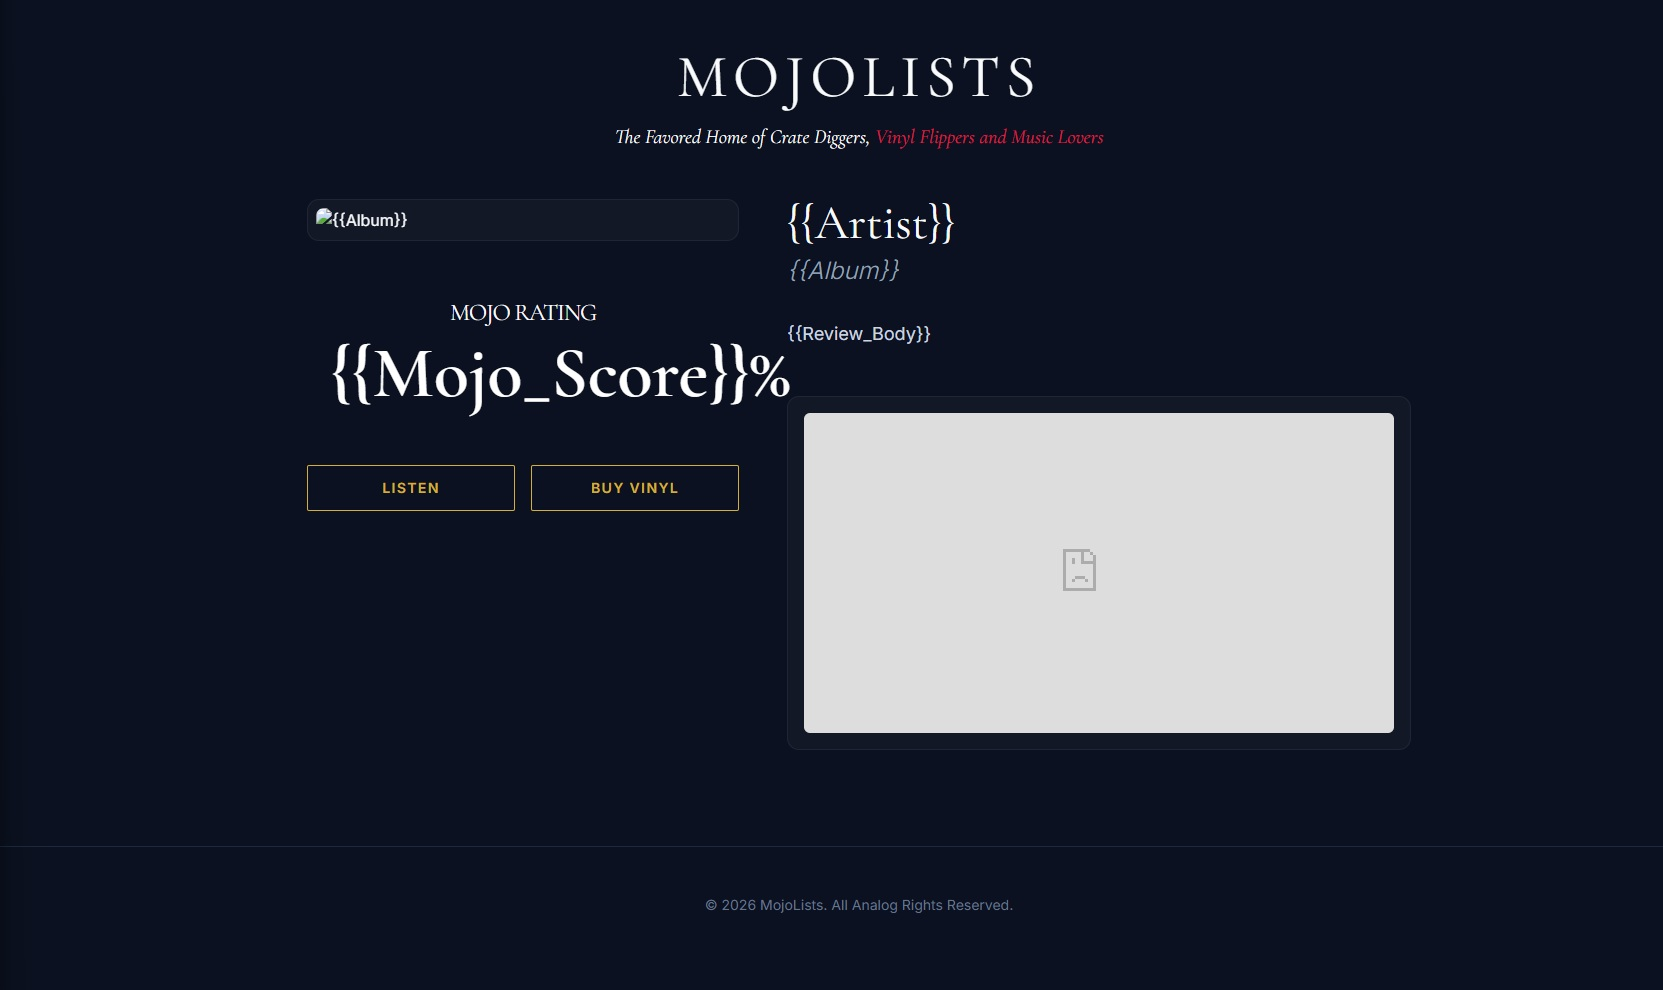
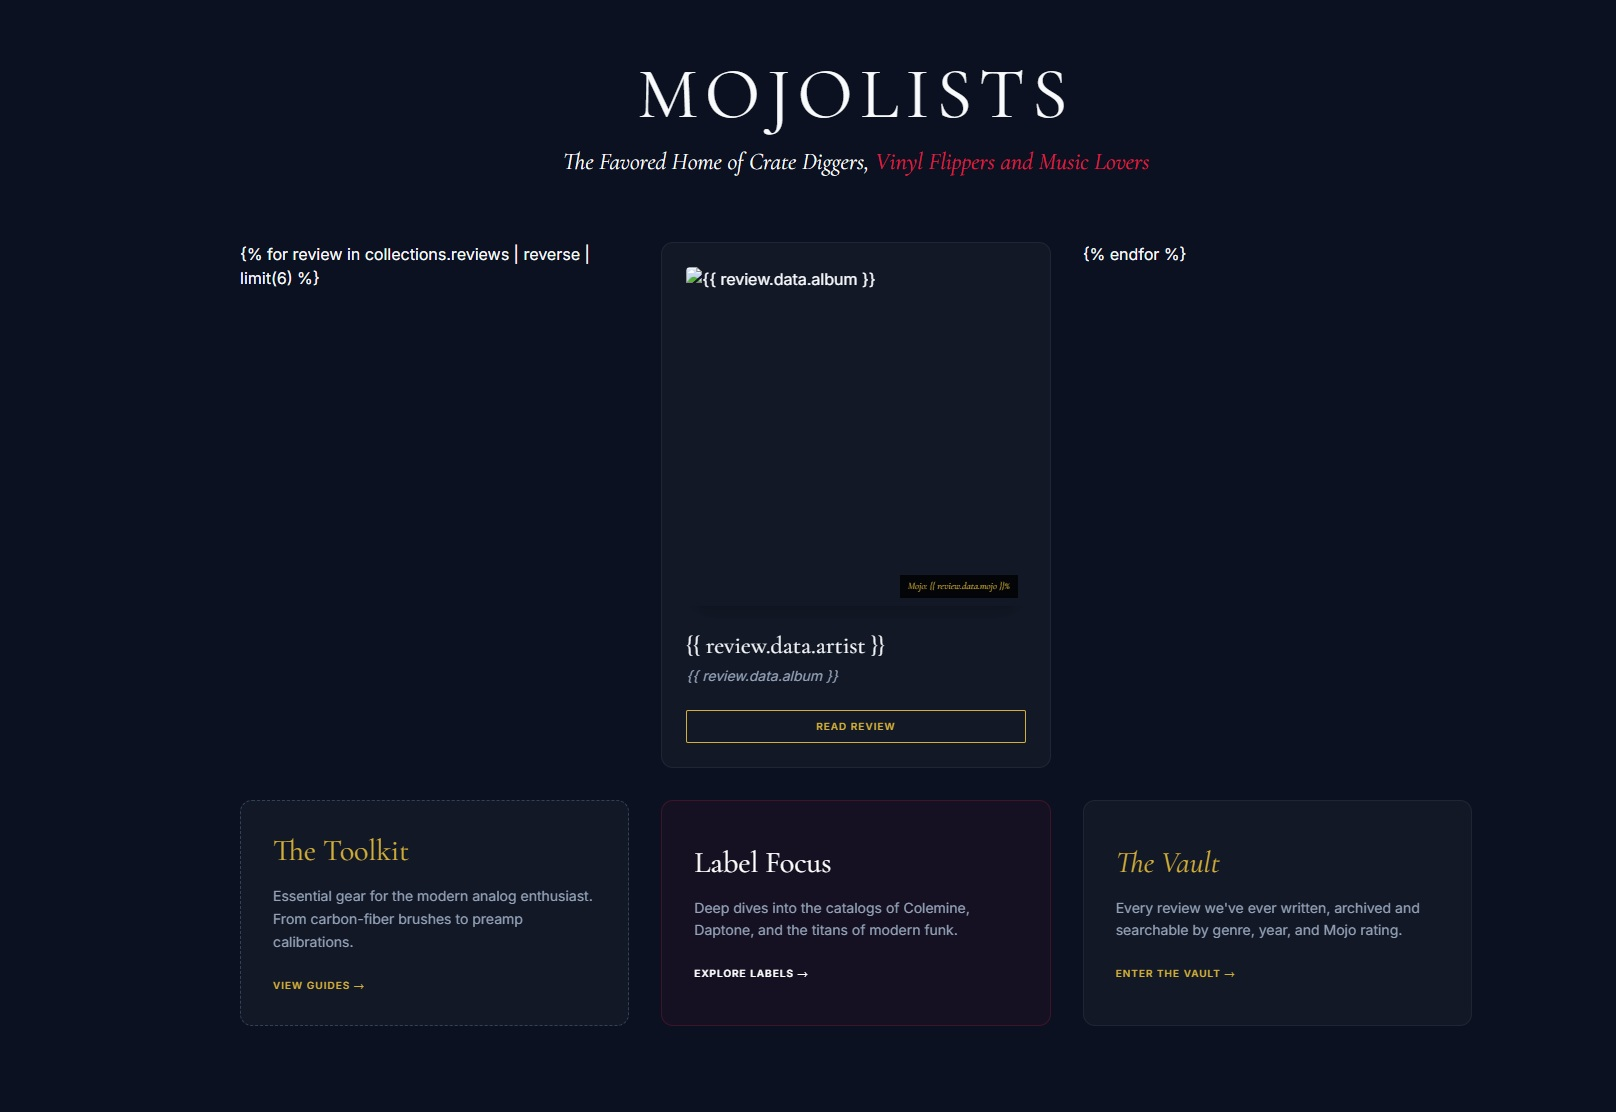
upd

diff --git a/index.html b/index.html
@@ -1,3 +1,5 @@
+---
+---
 <!DOCTYPE html>
 <html lang="en">
 <head>
@@ -19,6 +21,9 @@
             border: 1px solid rgba(255, 255, 255, 0.05); 
             border-radius: 12px; 
         }
+        .mojo-rating-box {
+            background: transparent;
+        }
         .gold-button { 
             border: 1px solid #d4af37; 
             color: #d4af37; 
@@ -39,9 +44,7 @@
 <body class="antialiased">
 
     <header class="py-16 text-center">
-        <a href="/" class="hover:opacity-80 transition-opacity">
-            <h1 class="serif text-7xl tracking-widest uppercase mb-4">MojoLists</h1>
-        </a>
+        <h1 class="serif text-7xl tracking-widest uppercase mb-4">MojoLists</h1>
         <p class="motto-text text-2xl">
             <span class="text-white">The Favored Home of Crate Diggers,</span> 
             <span class="text-mojo-red">Vinyl Flippers and Music Lovers</span>
@@ -69,7 +72,7 @@
                 <a href="/toolkit" class="gold-accent uppercase text-[10px] tracking-widest font-bold hover:underline">View Guides →</a>
             </div>
 
-            <div class="glass-card p-8 flex flex-col justify-center bg-[#e11d48]/5 border-[#e11d48]/20">
+            <div class="glass-card p-8 flex flex-col justify-center border-white/10">
                 <h4 class="serif text-3xl mb-4 text-white">Label Focus</h4>
                 <p class="text-slate-400 text-sm leading-relaxed mb-6">Deep dives into the catalogs of Colemine, Daptone, and the titans of modern funk.</p>
                 <a href="/labels" class="text-white uppercase text-[10px] tracking-widest font-bold hover:underline">Explore Labels →</a>
